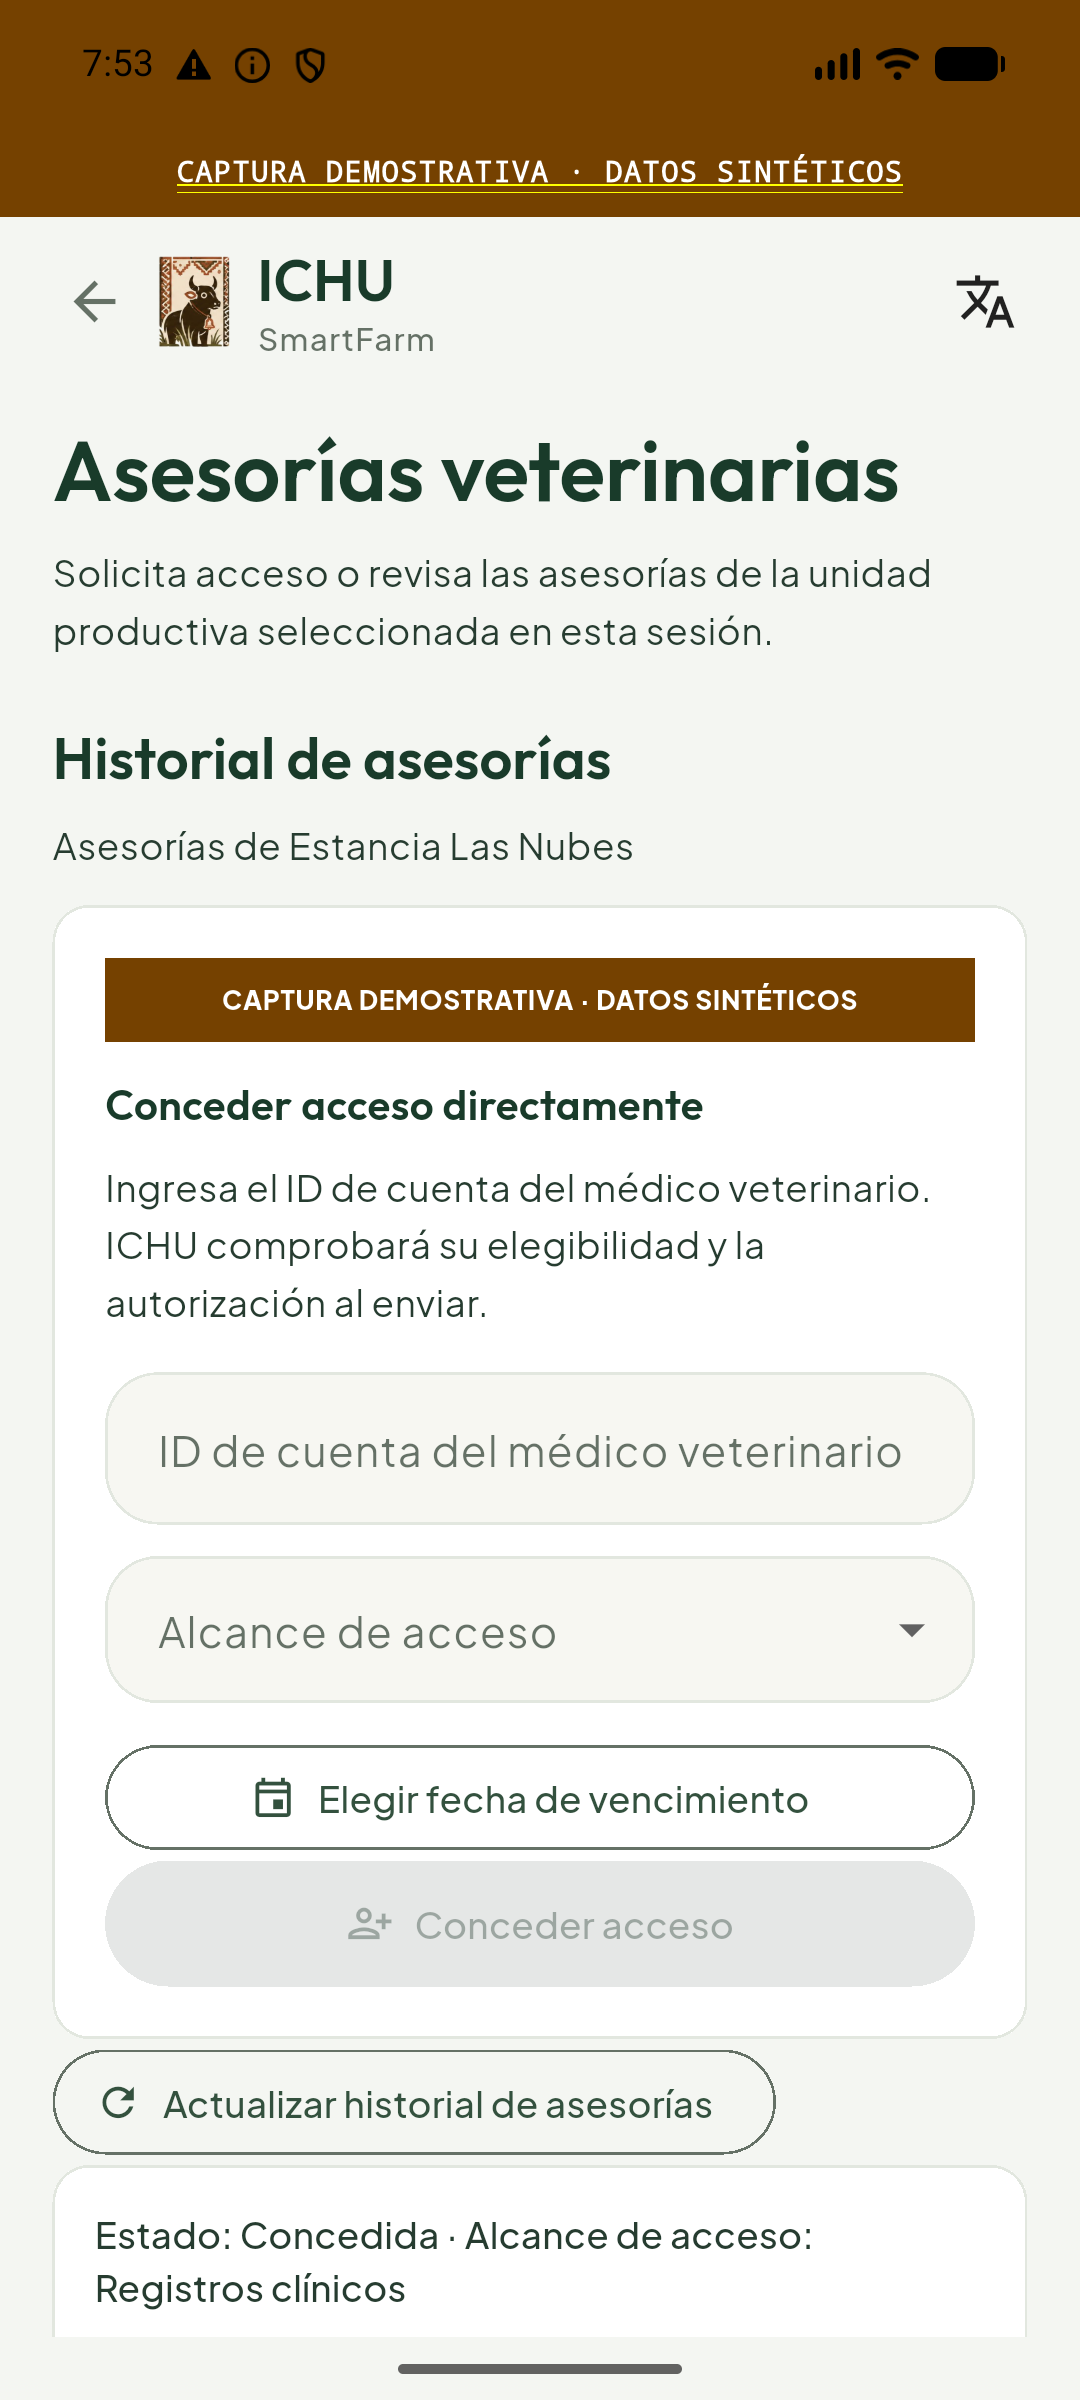
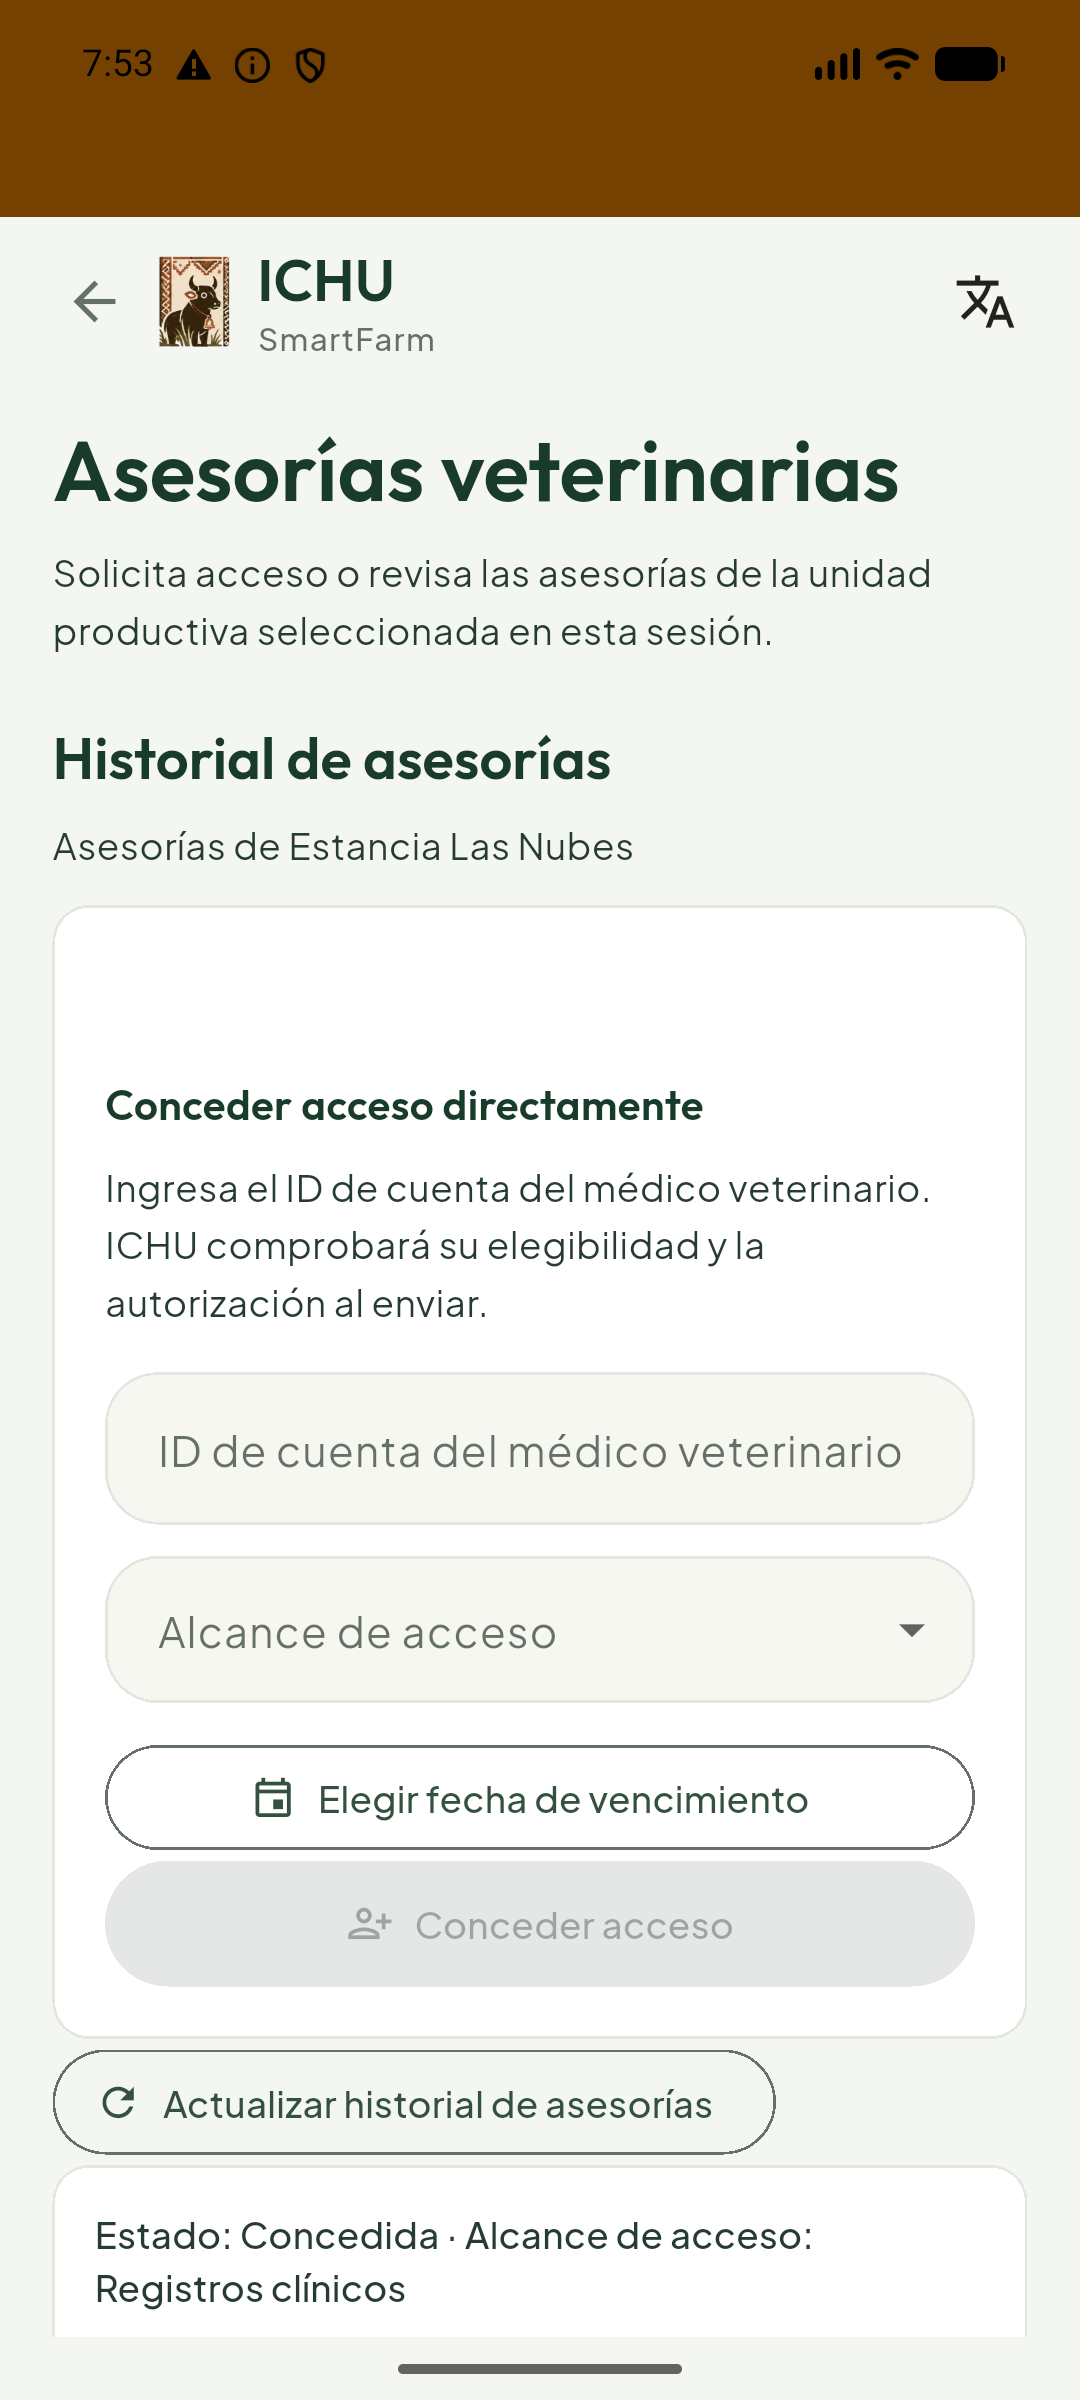
docs(chapter-vi): correct mobile screenshot labels

diff --git a/report/60-product-implementation-validation-and-deployment.md b/report/60-product-implementation-validation-and-deployment.md
@@ -945,7 +945,7 @@ Las pruebas se ejecutan en cada pull request. Los trabajos `end-to-end` inician 
 
 ##### Verificación local de la aplicación móvil
 
-El 15 de noviembre de 2026, sobre el commit base `abb688e` de `ichu-mobile-app`, `flutter test` finalizó con **813 pruebas aprobadas**, `flutter analyze` informó **No issues found** y `flutter build apk --debug` compiló el APK. La aplicación se instaló y abrió en un AVD Android 17, API 37, x86_64. Tras añadir el ejecutable auxiliar de capturas en la rama `feature/synthetic-mobile-demo-screens`, se repitieron `flutter test` (**813 aprobadas**) y `flutter analyze` (**No issues found**); también se compiló y abrió el target `tool/mobile_demo_main.dart`. El runner reutiliza las vistas de Flutter con repositorios falsos y datos sintéticos. Las seis capturas de esa ejecución están identificadas en pantalla y en el informe; ilustran estados de interfaz, pero no prueban autenticación Firebase, integración con servicios, datos reales ni aceptación por usuarios. Sin opciones aprobadas de Firebase, el recorrido real permaneció bloqueado en el acceso; estas verificaciones tampoco equivalen a publicación ni a pruebas con usuarios.
+El 15 de noviembre de 2026, sobre el commit base `abb688e` de `ichu-mobile-app`, `flutter test` finalizó con **813 pruebas aprobadas**, `flutter analyze` informó **No issues found** y `flutter build apk --debug` compiló el APK. La aplicación se instaló y abrió en un AVD Android 17, API 37, x86_64. Tras añadir el ejecutable auxiliar para capturar los estados de interfaz, se repitieron `flutter test` (**813 aprobadas**) y `flutter analyze` (**No issues found**); también se compiló y abrió el target de capturas. Las seis imágenes documentan los estados revisados en el AVD. Sin opciones aprobadas de Firebase, la ejecución conectada permaneció en la pantalla de acceso y no permitió verificar autenticación, integración con servicios ni flujos autenticados; estas comprobaciones tampoco equivalen a publicación ni a pruebas de aceptación con usuarios.
 
 #### 6.2.2.6. Execution Evidence for Sprint Review
 
@@ -1389,7 +1389,7 @@ La demostración recorrió la ficha del animal, el historial clínico y la consu
 
 ### 6.3.3. Evaluaciones según heurísticas
 
-En esta sección se evalúa preliminarmente la experiencia de usuario, considerando usabilidad, arquitectura de información y diseño inclusivo. La inspección de los seis hallazgos se basa en el código móvil y los contratos del servicio web. Para ilustrar las pantallas sin credenciales Firebase, se ejecutó `tool/mobile_demo_main.dart` en un AVD Android 17 (API 37, x86_64): conserva las vistas reales de Flutter, pero sustituye autenticación, API y almacenamiento por repositorios falsos con fixtures inventados. Cada captura mantiene visible el rótulo «CAPTURA DEMOSTRATIVA · DATOS SINTÉTICOS». Por tanto, ilustran estados de interfaz y los hallazgos descritos; no son evidencia de datos reales, integración con Firebase/servicios, ejecución autenticada de producción ni observación de participantes. No se realizaron entrevistas para esta inspección y el video de 6.3.2 no cubre tareas móviles. Las severidades son provisionales y requieren contraste en recorridos autorizados con personas usuarias.
+En esta sección se evalúa preliminarmente la experiencia de usuario, considerando usabilidad, arquitectura de información y diseño inclusivo. La inspección de los seis hallazgos se basa en el código móvil y los contratos del servicio web. Las seis capturas corresponden a vistas de la aplicación Flutter ejecutadas en un AVD Android 17 (API 37, x86_64) y documentan los estados analizados. La inspección permite evaluar la interfaz frente a los flujos y contratos; no constituye una verificación de autenticación Firebase, integración de servicios en producción ni observación de participantes. No se realizaron entrevistas para esta inspección y el video de 6.3.2 no cubre tareas móviles. Las severidades son provisionales y requieren contraste en recorridos autorizados con personas usuarias.
 
 #### ESCALA DE SEVERIDAD:
 
@@ -1441,9 +1441,9 @@ En esta sección se evalúa preliminarmente la experiencia de usuario, considera
 * **Descripción del problema:** La tarjeta principal muestra `cattleId`, que es un UUID, bajo la etiqueta de identificación del animal. No muestra el arete ni un nombre reconocible, y la tarjeta no ofrece una acción directa para abrir la ficha del animal. Para decidir a quién atender, el usuario tendría que recordar o buscar por separado a qué animal corresponde el UUID. Esto añade pasos y puede retrasar la respuesta ante una alerta.
 * **Recomendación:** Mostrar el arete como identificador principal, acompañarlo con el nombre o descripción disponible y permitir abrir la ficha del animal y su monitoreo desde la alerta. Conservar el UUID en los detalles técnicos.
 
-![Captura demostrativa de una alerta que identifica al animal con un UUID](assets/images/implementation/mobile-heuristic-01-alert-uuid.png)
+![Vista móvil de una alerta que identifica al animal con un UUID](assets/images/implementation/mobile-heuristic-01-alert-uuid.png)
 
-*Figura 6.27. Vista móvil de alertas con identificadores UUID sintéticos en lugar de aretes; captura del ejecutable auxiliar, no de una consulta en vivo.*
+*Figura 6.27. Vista móvil de alertas que identifica al animal mediante un UUID y no muestra el arete.*
 
 ##### PROBLEMA #2: La lista no ayuda a priorizar alertas por gravedad
 
@@ -1453,9 +1453,9 @@ En esta sección se evalúa preliminarmente la experiencia de usuario, considera
 * **Descripción del problema:** El servicio devuelve las alertas de más reciente a más antigua. La aplicación móvil carga 20 por página y permite filtrar por estado, pero no por severidad ni por animal. La gravedad aparece en cada tarjeta, de modo que el usuario puede leerla, pero una alerta crítica más antigua puede quedar en una página posterior entre alertas menos urgentes. La tarea de elegir la alerta más urgente requiere inspeccionar y comparar la lista manualmente.
 * **Recomendación:** Dar prioridad visible a las alertas pendientes críticas y permitir filtrar o agrupar por severidad. Mantener la fecha, el estado y la paginación visibles para conservar contexto.
 
-![Captura demostrativa de los filtros de alertas disponibles](assets/images/implementation/mobile-heuristic-02-alert-filters.png)
+![Vista móvil de los filtros de alertas disponibles](assets/images/implementation/mobile-heuristic-02-alert-filters.png)
 
-*Figura 6.28. La vista expone un filtro por estado, sin un control visible para filtrar por severidad; los datos mostrados son sintéticos.*
+*Figura 6.28. La vista expone un filtro por estado, sin un control visible para filtrar por severidad.*
 
 ##### PROBLEMA #3: No hay una ruta de recuperación para registros rechazados o en conflicto
 
@@ -1465,9 +1465,9 @@ En esta sección se evalúa preliminarmente la experiencia de usuario, considera
 * **Descripción del problema:** La sincronización conserva los registros rechazados o en conflicto, pero la lista de pendientes solo presenta un mensaje de estado. El elemento no ofrece acciones para editar, corregir, descartar o volver a crear el registro. El aviso general indica que la sincronización no los modifica, por lo que el usuario puede comprender que existe un problema sin tener una forma de resolverlo desde la aplicación.
 * **Recomendación:** Explicar el motivo en términos comprensibles y ofrecer una acción segura de corrección o resolución, conservando la trazabilidad de la operación original y evitando duplicados. Si el registro no puede corregirse, explicar cómo registrar una operación nueva.
 
-![Captura demostrativa de un registro de campo en conflicto sin acción de resolución](assets/images/implementation/mobile-heuristic-03-field-conflict.png)
+![Vista móvil de un registro de campo en conflicto sin acción de resolución](assets/images/implementation/mobile-heuristic-03-field-conflict.png)
 
-*Figura 6.29. Registro pendiente con conflicto y sin controles para corregirlo o resolverlo en esta vista; fixture sintético, no resultado de una sincronización real.*
+*Figura 6.29. Registro pendiente con conflicto y sin controles para corregirlo o resolverlo en esta vista.*
 
 ##### PROBLEMA #4: La preparación offline requiere precargar animales uno por uno
 
@@ -1477,9 +1477,9 @@ En esta sección se evalúa preliminarmente la experiencia de usuario, considera
 * **Descripción del problema:** Para poder seleccionar un animal sin conexión, primero hay que localizarlo por su arete exacto cuando hay red; la aplicación guarda esa opción localmente. Si el animal no está en caché y el teléfono no tiene conectividad, la búsqueda depende del servicio y no puede completarse. El texto de ayuda informa esta condición, pero la preparación se realiza animal por animal y no se encontró un flujo para precargar un lote o todo el hato.
 * **Recomendación:** Ofrecer una acción explícita para descargar los animales de un lote o hato antes de salir a campo, mostrar cuántos quedaron disponibles sin conexión y confirmar su vigencia.
 
-![Captura demostrativa del formulario de campo que solicita un arete exacto](assets/images/implementation/mobile-heuristic-04-field-preload.png)
+![Vista móvil del formulario de campo que solicita un arete exacto](assets/images/implementation/mobile-heuristic-04-field-preload.png)
 
-*Figura 6.30. Formulario de campo con búsqueda por arete exacto; la lista local mostrada procede de fixtures sintéticos.*
+*Figura 6.30. Formulario de campo con búsqueda por arete exacto.*
 
 ##### PROBLEMA #5: Los flujos de acceso dependen de UUID difíciles de reconocer
 
@@ -1489,9 +1489,9 @@ En esta sección se evalúa preliminarmente la experiencia de usuario, considera
 * **Descripción del problema:** La concesión directa requiere ingresar manualmente el UUID de la cuenta veterinaria, y las tarjetas de historial muestran ese UUID cuando no hay un perfil legible disponible. Esto obliga al administrador a obtener y comparar identificadores fuera de la aplicación y deja margen para errores al elegir a la persona. El flujo de solicitud del veterinario usa un código de acceso del rancho, no el UUID del rancho.
 * **Recomendación:** Permitir buscar al veterinario por correo o nombre, mostrar datos legibles para confirmar la persona elegida y conservar el UUID solo en una vista técnica o secundaria.
 
-![Captura demostrativa de la concesión de acceso mediante identificador de cuenta](assets/images/implementation/mobile-heuristic-05-access-uuid.png)
+![Vista móvil de la concesión de acceso mediante identificador de cuenta](assets/images/implementation/mobile-heuristic-05-access-uuid.png)
 
-*Figura 6.31. Formulario de concesión directa que solicita el identificador de cuenta del veterinario; identidad y rancho son datos ficticios.*
+*Figura 6.31. Formulario de concesión directa que solicita el identificador de cuenta del veterinario.*
 
 ##### PROBLEMA #6: La confirmación de revocación no identifica el acceso afectado
 
@@ -1501,9 +1501,9 @@ En esta sección se evalúa preliminarmente la experiencia de usuario, considera
 * **Descripción del problema:** El botón “Revoke access” sí abre un diálogo de confirmación antes de enviar la operación, pero el texto del diálogo es genérico: no identifica el veterinario, el rancho, el alcance ni la fecha de expiración. El administrador no puede verificar desde esa confirmación cuál permiso se retirará.
 * **Recomendación:** Mantener la confirmación existente y añadir el nombre o identificador legible del veterinario, rancho, alcance y fecha de expiración; comunicar el resultado y facilitar la restauración del acceso autorizado.
 
-![Captura demostrativa del diálogo genérico de confirmación al revocar un acceso](assets/images/implementation/mobile-heuristic-06-revoke-confirmation.png)
+![Vista móvil del diálogo de confirmación al revocar un acceso](assets/images/implementation/mobile-heuristic-06-revoke-confirmation.png)
 
-*Figura 6.32. Diálogo de confirmación presente en la app, pero sin detalles del permiso que se revocará; el acceso visible procede de fixtures sintéticos.*
+*Figura 6.32. Diálogo de confirmación presente en la app, pero sin detalles del permiso que se revocará.*
 
 ## 6.4. Video About-the-Product
 

diff --git a/report/88-conclusions-and-recommendations.md b/report/88-conclusions-and-recommendations.md
@@ -83,9 +83,9 @@ En TB1, el Capítulo VI documentó la configuración, las interfaces y los despl
 
 El historial de `ichu-mobile-app` documenta una aplicación nativa Flutter para Android e iOS, con flujos de identidad, selección de rancho, consulta de animales y monitoreo, alertas y registros de campo offline. En la verificación local del 15 de noviembre de 2026, el conjunto `flutter test` pasó **813 pruebas**, `flutter analyze` no reportó problemas y se compiló y abrió un APK debug en un AVD Android. Estos resultados respaldan la existencia del artefacto y sus pruebas automatizadas; no demuestran por sí solos que las historias del Sprint 2 hayan sido aceptadas ni que el cliente esté integrado y desplegado en producción.
 
-La ejecución conectada quedó limitada a la pantalla pública de inicio de sesión porque no se suministraron opciones aprobadas de Firebase. No se validaron cuentas, consultas autenticadas, datos del rancho, operación integrada con Edge ni flujos offline en dispositivo. Se preparó por separado un ejecutable auxiliar con repositorios falsos y datos sintéticos para ilustrar los seis estados de interfaz; las seis capturas incluidas están rotuladas y no se consideran evidencia de uso real, datos productivos ni validación con participantes. Tampoco se encontró evidencia de distribución móvil o de tareas nativas realizadas por los participantes. La validación registrada comprende tres ganaderos y dos veterinarios; falta al menos una sesión real de veterinario para alcanzar el mínimo de la guía. La sección 6.4 tampoco contiene aún el video del producto.
+La ejecución conectada quedó limitada a la pantalla pública de inicio de sesión porque no se suministraron opciones aprobadas de Firebase. No se validaron cuentas, consultas autenticadas, datos del rancho, operación integrada con Edge ni flujos offline en dispositivo. Las seis capturas incluidas documentan los estados de interfaz revisados durante la inspección heurística; no acreditan por sí solas autenticación, integración con servicios en producción ni validación con participantes. Tampoco se encontró evidencia de distribución móvil o de tareas nativas realizadas por los participantes. La validación registrada comprende tres ganaderos y dos veterinarios; falta al menos una sesión real de veterinario para alcanzar el mínimo de la guía. La sección 6.4 tampoco contiene aún el video del producto.
 
-Se recomienda configurar Firebase y un entorno de prueba autorizado sin versionar credenciales, repetir la ejecución y validar los seis hallazgos mediante recorridos móviles con datos autorizados y participantes; completar la entrevista faltante; producir wireframes y flujos móviles; verificar un canal de distribución antes de afirmar un despliegue; y publicar el video About-the-Product. Las capturas sintéticas ya incluidas son ilustrativas y no sustituyen esa validación. Hasta entonces, deben mantenerse separados el código implementado, las pruebas automatizadas, la ejecución local y la validación de aceptación.
+Se recomienda configurar Firebase y un entorno de prueba autorizado sin versionar credenciales, repetir la ejecución y contrastar los seis hallazgos mediante recorridos móviles autorizados y participantes; completar la entrevista faltante; producir wireframes y flujos móviles; verificar un canal de distribución antes de afirmar un despliegue; y publicar el video About-the-Product. Las capturas documentan los hallazgos de interfaz, pero no sustituyen la validación de aceptación con personas usuarias. Hasta entonces, deben mantenerse separados el código implementado, las pruebas automatizadas, la ejecución local y la validación de aceptación.
 
 ## Video About-the-Team
 
